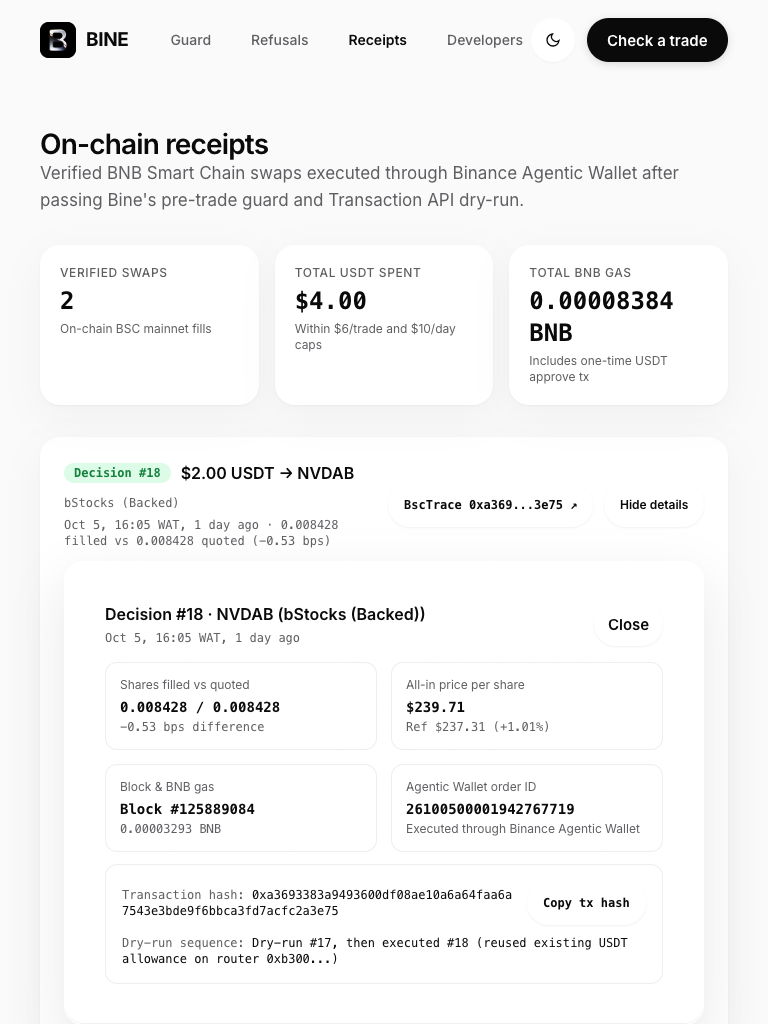
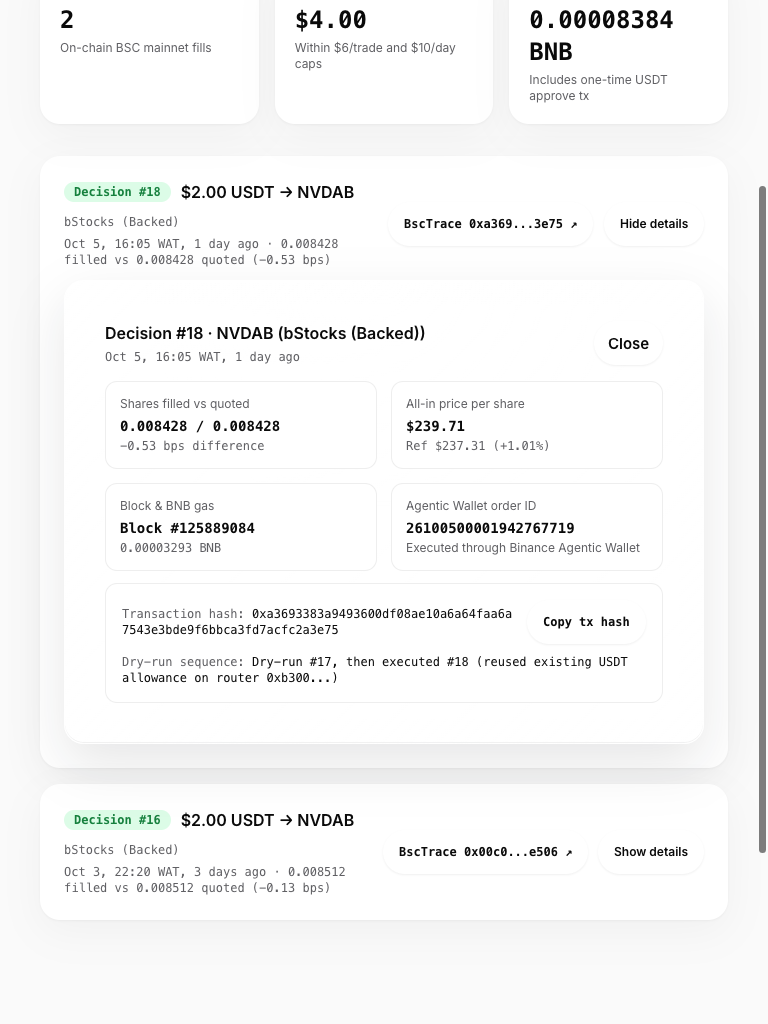
Phase D: finalize glass screenshots, standing UI rules skill, and memory.md

diff --git a/scripts/verify_glass_and_perf.py b/scripts/verify_glass_and_perf.py
@@ -296,11 +296,11 @@ def main() -> int:
                             break
                         time.sleep(0.2)
 
-                    # Ensure one glass panel is open on every page
+                    # Ensure one glass panel is open on every page and scroll it into the viewport
                     cdp.eval_js(
                         """
                         (() => {
-                          const existing = document.querySelector('[data-glass-panel]');
+                          let existing = document.querySelector('[data-glass-panel]');
                           if (!existing) {
                             const trigger = document.querySelector('.bine-glass-trigger');
                             if (trigger) trigger.click();
@@ -308,7 +308,18 @@ def main() -> int:
                         })()
                         """
                     )
-                    time.sleep(0.45)
+                    time.sleep(0.35)
+                    cdp.eval_js(
+                        """
+                        (() => {
+                          const panel = document.querySelector('[data-glass-panel]');
+                          if (panel) {
+                            panel.scrollIntoView({ block: 'center', behavior: 'instant' });
+                          }
+                        })()
+                        """
+                    )
+                    time.sleep(0.25)
 
                     check = cdp.eval_js(
                         """

diff --git a/memory.md b/memory.md
@@ -43,7 +43,12 @@
       - `PHASE 3` (`03f9b7b`): Built `frontend/src/pages/Home.tsx` (`2.51` screens tall at `1440px`) with Hero, Proof strip, How Bine works, What Bine refuses (`frontend/src/data/recorded-refusals.json`), Verified on BNB Chain (`frontend/src/data/onchain-receipts.json`), and Closing band.
       - `PHASE 4` (`c6f73f7`): Rebuilt `frontend/src/pages/Refusals.tsx` (8-rule legend, 6 recorded refusals from Oct 5 regular + overnight sessions, one-at-a-time `"Run live now"` comparator), `frontend/src/pages/Receipts.tsx` (summary cards, expandable BscScan/BscTrace receipt details with filled vs quoted shares, block number, and BNB gas, empty state via `?empty=1`), and `frontend/src/pages/Integrate.tsx` (WAI-ARIA APG tabs `HTTP`/`CLI`/`MCP`/`Agent skill` with `ArrowLeft`/`ArrowRight`/`Home`/`End`, live `"Try it"` runner, 13-key response table, and `401/403`/`429`/`503` errors table).
       - `PHASE 5` (`d9e4eba`): Executed real headless Chrome CDP pass across all 30 screen/viewport/theme combinations + interactive states (`0` horizontal overflow, `0` undersized tap targets, `0` em dashes, `0` console errors, `0` external network requests, verified `<h1>` route-change focus and keyboard navigation) and updated `docs/ui-audit.md` (`9.2/10` to `9.5/10`).
-      - `PHASE 6`: Added `docs/ui-design-rules.md`, updated `docs/screenshots/*.png`, added `"For judges"` section at the top of `README.md`, and verified all final checks.
+      - `PHASE 6` (`7fd9564`): Added `docs/ui-design-rules.md`, updated `docs/screenshots/*.png`, added `"For judges"` section at the top of `README.md`, and verified all final checks.
+    - **4-Phase Polish Pass (`PHASE A` through `PHASE D` on `ui-redesign`)**:
+      - `PHASE A` (`1a63f46`): Eliminated every displayed underscore (`_`) outside `[data-raw-code]` across all 5 routes via `frontend/src/lib/humanize.ts`, verified `recorded-refusals.json` against `docs/raw/regular_hours_quotes_2026-10-05.jsonl` and `docs/devex-facts.md`, and added `scripts/check_underscores.py` (`TOTAL_UNDERSCORE_OFFENDERS=0`).
+      - `PHASE B` (`42c4010`): Unified header logo, footer logo, and `favicon.svg` onto monochrome silver/chrome (`colorTint="#ffffff"` on `#000000`, frozen `LiquidMetal` at `speed={0}` under `prefers-reduced-motion: reduce`), unified container widths (`max-w-[1240px]`), and verified `0px` logo `x` drift (`100px`) and `0.0000/255` pixel diff via `scripts/verify_logo_and_alignment.py`.
+      - `PHASE C` (`4a68c5c`): Built `frontend/src/components/GlassStack.tsx` and liquid-glass CSS (`.bine-glass-panel` + `.bine-glass-scrim` + `@supports (backdrop-filter: url(#bine-glass))` Chromium SVG refraction + `rAF` specular cursor highlight + `390px` mobile sheet) across all 5 routes (`Home`, `Guard`, `Refusals`, `Receipts`, `Integrate`), keeping the main JS chunk at `485.90 kB` raw (`< 500 kB`).
+      - `PHASE D`: Captured and inspected all 30 `docs/screenshots/glass_<page>_<theme>_<width>.png` screenshots, verified performance traces (`0` long tasks `> 50 ms`) and WCAG 2.2 AA contrast (`> 14:1`), updated `memory.md`, and codified the 4 standing frontend rules in `.agents/skills/bine-ui-standing-rules/SKILL.md`.
 
 ## 5. Recent Changes
 - **2026-10-02 (Item 1 — State Check & Dead Code Trim)**:
@@ -114,15 +119,13 @@
     - Created `frontend/src/components/HeroArt.tsx` (2D SVG tilted lavender ring with 3D wall/bevel/shadow + 3D gold coin with rim ridges, embossed `BINE` mark, `offset-path` rolling entrance, `rAF` pointer parallax, and scroll fade).
     - Updated `frontend/src/index.css`, `frontend/src/components/shared.tsx` (`TopHeader` with `"Check a trade"` pill and `Footer` with circular GitHub/X pills), `frontend/src/App.tsx`, and all 4 pages (`Home.tsx`, `Integrate.tsx`, `Refusals.tsx`, `Receipts.tsx`).
     - Verified `51/51` pytest tests pass, production build adds `+59.10 kB` JS gzipped (`+61.68 kB` total CSS+JS gzipped, under the `120 kB` budget), `0` em dashes in `frontend/src`, `0` console errors/warnings, `0` external network requests, and 34 screenshots captured across all routes, themes, viewports, and motion sequences.
-- **2026-10-07 (`PHASE 0`–`PHASE 6` Frontend Refinement Pass on `ui-redesign`)**:
+- **2026-10-07 (`PHASE 0`–`PHASE 6` Refinement Pass + `PHASE A`–`PHASE D` Polish Pass on `ui-redesign`)**:
   - Tagged `pre-redesign` at `aa3d56f` for rollback safety.
-  - **`PHASE 0` (`b203cc7`)**: Audited all screens via real Chrome CDP across `390px`, `768px`, and `1440px` in light and dark themes and wrote `docs/ui-audit.md`.
-  - **`PHASE 1` (`b58e63f`)**: Split `/` (landing page) and `/guard` (interactive Pre-Trade Guard), set default cold theme to Light, added `LiveModeChip`, and lazy-loaded route pages and `LiquidMetal` so the main JS chunk is `470.93 kB` raw (`< 500 kB`).
-  - **`PHASE 2` (`463e90d`)**: Built `frontend/src/pages/Guard.tsx` (WAI-ARIA APG combobox, 4 presets, 5 plain-English decision metrics, 6 guard checks, ticking quote age, progressive disclosures, 503/network error states) and humanized `market_closed` copy in `backend/bine/quote_engine.py` (`51/51` pytest tests passing).
-  - **`PHASE 3` (`03f9b7b`)**: Rebuilt `frontend/src/pages/Home.tsx` (`2.51` screens tall at `1440px`) and created `frontend/src/data/recorded-refusals.json` and `frontend/src/data/onchain-receipts.json`.
-  - **`PHASE 4` (`c6f73f7`)**: Rebuilt `frontend/src/pages/Refusals.tsx` (8-rule legend, 6 recorded empirical refusals, one-at-a-time `"Run live now"` comparator), `frontend/src/pages/Receipts.tsx` (summary strip, expandable receipt verification rows, `?empty=1` state), and `frontend/src/pages/Integrate.tsx` (WAI-ARIA APG tabs `HTTP`/`CLI`/`MCP`/`Agent skill`, live `"Try it"` runner, 13-key response table, error table).
-  - **`PHASE 5` (`d9e4eba`)**: Executed 30-screenshot + interactive-state Chrome CDP pass (`0` overflow, `0` undersized targets, `0` em dashes, `0` console errors, `0` external requests, verified `<h1>` focus and keyboard navigation) and updated `docs/ui-audit.md` (`9.2/10` to `9.5/10`).
-  - **`PHASE 6`**: Wrote `docs/ui-design-rules.md`, regenerated `docs/screenshots/*.png`, added `"For judges"` section at top of `README.md`, and verified all final checks.
+  - **`PHASE 0`–`PHASE 6` (`b203cc7`..`7fd9564`)**: Audited all screens via Chrome CDP (`docs/ui-audit.md`), split `/` and `/guard`, added WAI-ARIA APG combobox and tabs, rebuilt `Refusals.tsx`, `Receipts.tsx`, and `Integrate.tsx`, added `docs/ui-design-rules.md`, and verified all 30 screen/theme/viewport states.
+  - **`PHASE A` (`1a63f46`)**: Created `frontend/src/lib/humanize.ts` and `scripts/check_underscores.py`, removing all displayed underscores outside `[data-raw-code]` (`TOTAL_UNDERSCORE_OFFENDERS=0`).
+  - **`PHASE B` (`42c4010`)**: Unified `BineLogo.tsx`, `Footer`, and `favicon.svg` on monochrome chrome (`speed={0}` when `prefers-reduced-motion: reduce`), unified `max-w-[1240px]` containers across all 5 pages, and verified `0px` logo `x` drift (`100px`) and `0.0000/255` pixel diff via `scripts/verify_logo_and_alignment.py`.
+  - **`PHASE C` (`4a68c5c`)**: Created `frontend/src/components/GlassStack.tsx` and `.bine-glass-panel` / `.bine-glass-scrim` CSS with SVG refraction and cursor specular highlight across all 5 routes; verified `0` long tasks `> 50 ms`, `> 14:1` contrast, `0` overflow failures, and `485.90 kB` main JS chunk via `scripts/verify_glass_and_perf.py`.
+  - **`PHASE D`**: Captured and inspected all 30 `docs/screenshots/glass_*.png` files, updated `memory.md`, and created `.agents/skills/bine-ui-standing-rules/SKILL.md`.
 
 ## 6. Important Decisions
 - **5 bps Tie Band (`"Either works"`)**: When both issuers are eligible and within 5 bps on all-in price per share, Bine does not claim a price winner; it says `"Either works"` and picks deterministically (deeper AMM liquidity first → lower minimum order → alphabetical).
@@ -135,16 +138,20 @@
 - **Local DNS**: Pass `DEV_DNS_FALLBACK=true` on local networks where default DNS times out on `web3.binance.com`.
 
 ## 8. Current Task
-- Completed the 7-phase frontend refinement pass (`PHASE 0` through `PHASE 6`) on branch `ui-redesign`.
+- Completed both the 7-phase frontend refinement pass (`PHASE 0`–`PHASE 6`) and the 4-phase polish pass (`PHASE A`–`PHASE D`) on branch `ui-redesign`.
 
 ## 9. Next Steps
-1. Review `ui-redesign` branch in browser at `http://localhost:5174` (or `http://localhost:5173`) and merge to `master` when approved by user.
+1. Review `ui-redesign` branch in browser at `http://localhost:5174` and merge to `master` when approved by user.
 
 ## 10. Important Files
 - `memory.md` — Primary AI context and handoff state.
 - `README.md` — Root documentation (`For judges` section, 3-command quickstart, and safety defaults).
-- `docs/ui-audit.md` — Phase 0 baseline and Phase 5 post-refinement UI audit with per-screen scores.
+- `docs/ui-audit.md` — Phase 0 baseline, Phase 5 post-refinement, and Phase C liquid-glass UI audit with performance traces.
 - `docs/ui-design-rules.md` — Frontend design rules, tokens, typography, and component patterns.
+- `.agents/skills/bine-ui-standing-rules/SKILL.md` — Workspace skill enforcing the 4 standing frontend UI rules.
+- `scripts/check_underscores.py` — Automated CDP underscore scanner across all routes/themes/states.
+- `scripts/verify_logo_and_alignment.py` — Automated CDP logo `x`-coordinate and pixel-diff verifier.
+- `scripts/verify_glass_and_perf.py` — Automated CDP liquid-glass screenshot, contrast, overflow, and performance trace verifier.
 - `docs/PROJECT_BRIEF.md` — Original brief.
 - `docs/friction-log.md` — Empirical friction log with raw API measurements.
 - `docs/devex-facts.md` — Raw verified DevEx facts (Phase 8).
@@ -162,14 +169,16 @@
 - `backend/bine/cli.py` — `bine check` and `bine buy` CLI entry point (defaults to `BINE_API_URL=http://localhost:8000`).
 - `backend/bine/mcp_server.py` — Stdio MCP server (`bine_check`, `bine_buy`).
 - `skills/bine-pre-trade-guard/SKILL.md` — Wallet Skill for Binance Agentic Wallet.
-- `frontend/src/components/BineLogo.tsx` — `LiquidMetal` shader logo tile + wordmark lockup with WebGL/reduced-motion fallback.
+- `frontend/src/lib/humanize.ts` — Plain-English formatter for refusal codes, statuses, depth sources, field keys, and `GUARD_RULE_DEFINITIONS`.
+- `frontend/src/components/BineLogo.tsx` — `LiquidMetal` shader logo tile + wordmark lockup with monochrome chrome fallback and frozen `speed={0}` reduced-motion support.
+- `frontend/src/components/GlassStack.tsx` — `BineGlassFilterDef`, `GlassDetailPanel`, and `GlassStack` liquid-glass interactive card system.
 - `frontend/src/components/HeroArt.tsx` — 2D SVG lavender ring + 3D gold coin with `offset-path` roll and pointer parallax.
 - `frontend/src/components/shared.tsx` — `TopHeader` (`80px` nav bar, `LiveModeChip`, route-change `<h1>` focus) and `Footer` (`Connect` social pills).
-- `frontend/src/pages/Home.tsx` — `/` 2.5-screen Landing page.
-- `frontend/src/pages/Guard.tsx` — `/guard` Interactive Pre-Trade Guard with WAI-ARIA APG combobox and dry-run simulation.
-- `frontend/src/pages/Refusals.tsx` — `/refusals` 8-rule legend, 6 recorded refusals, and one-at-a-time live runner.
-- `frontend/src/pages/Receipts.tsx` — `/receipts` verified on-chain receipts with expandable BscScan / BscTrace verification details.
-- `frontend/src/pages/Integrate.tsx` — `/integrate` WAI-ARIA APG tabbed reference (`HTTP`, `CLI`, `MCP`, `Agent skill`) with live `"Try it"` runner.
+- `frontend/src/pages/Home.tsx` — `/` 2.5-screen Landing page with interactive glass proof strip and how-it-works cards.
+- `frontend/src/pages/Guard.tsx` — `/guard` Interactive Pre-Trade Guard with WAI-ARIA APG combobox, glass metric tiles, and glass guard-rule checks.
+- `frontend/src/pages/Refusals.tsx` — `/refusals` 8-rule interactive glass table, 6 recorded refusal glass cards, and one-at-a-time live runner.
+- `frontend/src/pages/Receipts.tsx` — `/receipts` verified on-chain receipts with expandable liquid-glass verification details.
+- `frontend/src/pages/Integrate.tsx` — `/integrate` WAI-ARIA APG tabbed reference (`HTTP`, `CLI`, `MCP`, `Agent skill`), live `"Try it"` runner, and interactive glass response field table.
 - `frontend/src/data/recorded-refusals.json` — Recorded Oct 5 regular-hours and overnight refusal samples.
 - `frontend/src/data/onchain-receipts.json` — Verified BNB Chain swap receipts (`Decision #16` and `Decision #18`).
 
@@ -187,3 +196,4 @@
 - **Minimal, decision-driving, plug-and-play**: No dashboards, charts, chat, notifications, or speculative metrics.
 - **Never fabricate or interpolate data**: Only verified numbers and errors.
 - **Never expose secrets**: API keys stay server-side and never appear in logs or responses.
+- **Follow `.agents/skills/bine-ui-standing-rules/SKILL.md`**: Zero displayed underscores outside `[data-raw-code]`, identical monochrome `BineWordmarkLockup` in header and footer aligned at `100px` (`1440px`), `.bine-glass-scrim` contrast layer inside every `.bine-glass-panel`, and real-browser CDP verification before every frontend commit.

diff --git a/.agents/skills/bine-ui-standing-rules/SKILL.md b/.agents/skills/bine-ui-standing-rules/SKILL.md
@@ -1,0 +1,48 @@
+---
+name: bine-ui-standing-rules
+description: >-
+  Enforces the 4 standing Bine frontend UI rules across all routes and components:
+  (1) zero displayed underscores outside [data-raw-code], (2) consistent BineLogoTile
+  rendering and exact left-edge alignment across nav and footer, (3) readable liquid-glass
+  cards with inner contrast scrims and one-card-per-stack interaction, and (4) mandatory
+  real-browser CDP inspection and verification before committing frontend changes.
+---
+
+# Bine Frontend Standing Rules (`bine-ui-standing-rules`)
+
+## Overview
+Activate this skill whenever creating, editing, or auditing frontend code (`frontend/src/`) or UI documentation in Bine. These 4 standing rules prevent regressions in copy clarity, brand consistency, glass readability, and browser verification.
+
+## Standing Rules
+
+### 1. Never Render Raw Identifier Underscores in UI Copy
+- **Rule**: No underscore character (`_`) may appear in any visible text, `aria-label`, `title`, tooltip, `placeholder`, `alt` text, or `document.title` outside raw code/command blocks (`<pre>`, `<code>`, or `[data-raw-code]`).
+- **Implementation**:
+  - Route all refusal codes (`slippage_too_high`, `below_issuer_minimum`, `quality_unreliable`, etc.), execution statuses (`LIVE_SUBMITTED`, `DRY_RUN_OK`, `REQUIRES_APPROVAL`), depth sources (`amm_pools`, `catalog_volume_24h`), and response schema field names through `frontend/src/lib/humanize.ts` (`humanizeRuleCode`, `humanizeStatus`, `humanizeDepthSource`, `humanizeFieldKey`, `humanizeCode`).
+  - Wrap genuine CLI flags, JSON payloads, or MCP tool names (`bine_check`, `bine_buy`) in `<code data-raw-code>` or `<pre data-raw-code>`.
+- **Automated Check**:
+  - Run `backend/.venv/bin/python scripts/check_underscores.py` and verify `TOTAL_UNDERSCORE_OFFENDERS=0`.
+
+### 2. Identical Logo Component & Left-Edge Container Alignment
+- **Rule**: The header brand lockup, footer brand lockup, and favicon must share one monochrome silver/chrome visual identity (`colorTint="#ffffff"` on `#000000`), and the nav and footer logo tiles must align to the exact same `x` coordinate at `1440px` across every route (`0px` drift).
+- **Implementation**:
+  - Always use `<BineWordmarkLockup tileSize={36} />` from `frontend/src/components/BineLogo.tsx` in both `TopHeader` and `Footer`.
+  - Under `prefers-reduced-motion: reduce`, keep `LiquidMetal` mounted at `speed={0}` (frozen shader frame) rather than swapping to a differently colored static gradient.
+  - Inside `.bine-container`, use a unified `max-w-[1240px] mx-auto` wrapper across `TopHeader`, `Footer`, and all 5 route pages (`Home.tsx`, `Guard.tsx`, `Refusals.tsx`, `Receipts.tsx`, `Integrate.tsx`).
+- **Automated Check**:
+  - Run `backend/.venv/bin/python scripts/verify_logo_and_alignment.py` and verify `UNIQUE_LOGO_X_COORDS_AT_1440=[100]` (`0px` drift) and nav-vs-footer logo pixel diff `<= 2/255`.
+
+### 3. Liquid Glass Readability Scrim & Single-Open-Card Stack Discipline
+- **Rule**: Every `.bine-glass-panel` must wrap its text/content inside `.bine-glass-scrim` so body and secondary text maintain `>= 4.5:1` WCAG 2.2 AA contrast in both Light and Dark themes. Never place text directly over raw blurred background.
+- **Implementation**:
+  - Use `GlassStack` and `GlassDetailPanel` (`frontend/src/components/GlassStack.tsx`) for interactive card groups.
+  - Keep at most one card open per stack (`aria-expanded`, `aria-controls`, `role="region"`), support `Escape` and `Close` button dismissal returning focus to the trigger, recede unselected siblings subtly on desktop/tablet (`opacity: 0.58; transform: scale(0.985)`), and expand inline on `390px` mobile without sibling scale transforms.
+
+### 4. Real-Browser CDP Verification Before Every Frontend Commit
+- **Rule**: Reading source code does not count as a UI audit. Every frontend change must be inspected in a real headless Chrome session via CDP across `390px`, `768px`, and `1440px` in both Light and Dark modes before committing.
+- **Verification Checklist**:
+  1. `backend/.venv/bin/python scripts/check_underscores.py` -> `TOTAL_UNDERSCORE_OFFENDERS=0`
+  2. `backend/.venv/bin/python scripts/verify_logo_and_alignment.py` -> `0px` logo `x` drift and identical nav/footer tile rendering
+  3. `backend/.venv/bin/python scripts/verify_glass_and_perf.py` -> `OVERFLOW_FAILURES=0`, `0` long tasks `> 50 ms`, and 30 `glass_<page>_<theme>_<width>.png` screenshots captured and visually inspected
+  4. `grep -rn "—" frontend/src/` -> `0` matches
+  5. `npm --prefix frontend run build` -> main JS chunk `< 500 kB` raw
